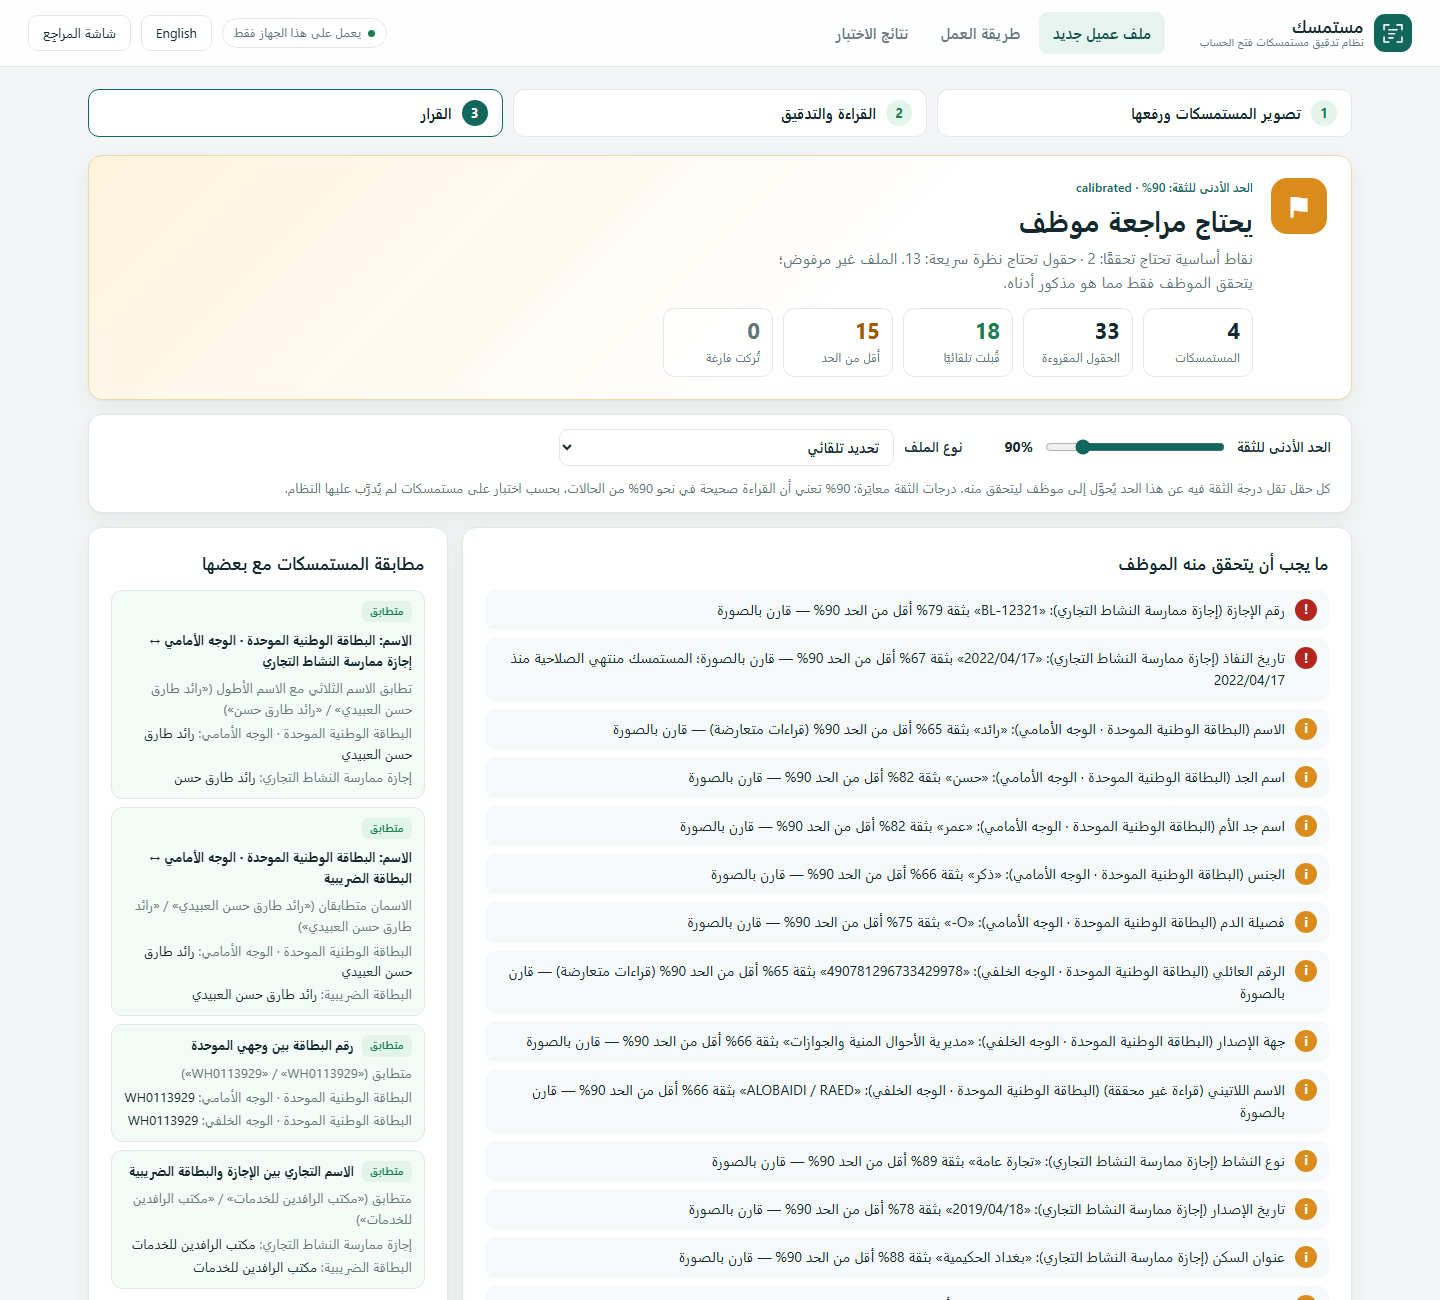
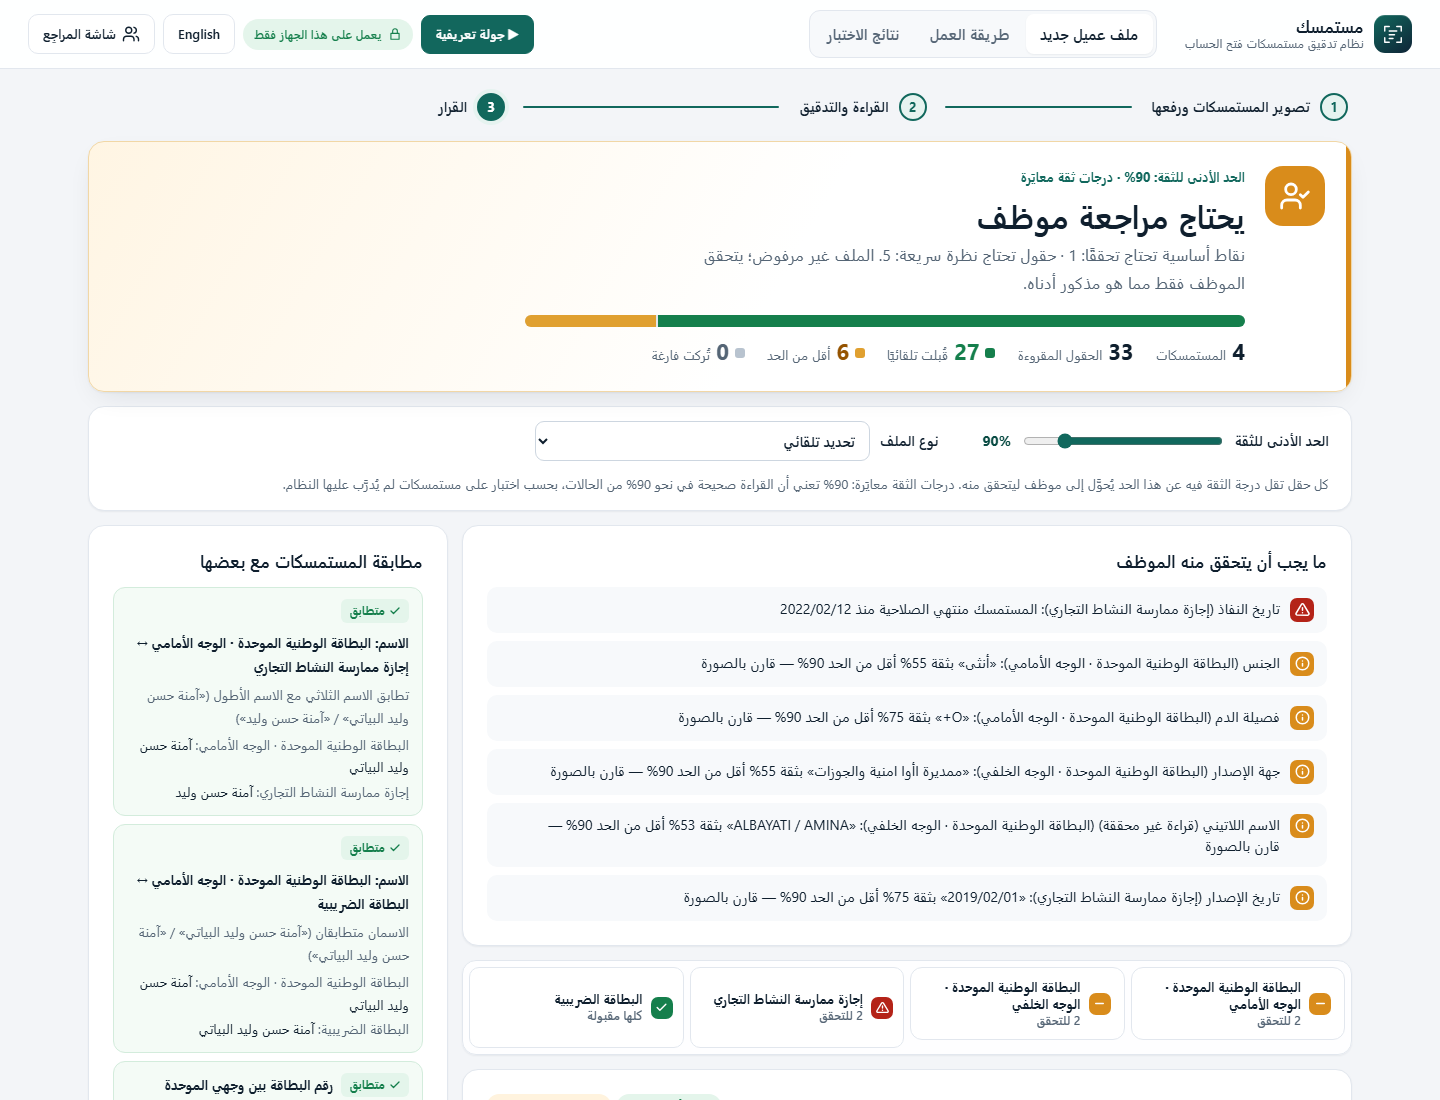
Refresh the README screenshots for the new interface
All five screenshots were recaptured from the running app (headless Edge,
1440 px, fictional demo files only). The README now leads with the two
outcomes: a correct file passed automatically and an expired licence handed
to a person (Arabic), and links docs/DESIGN.md.

diff --git a/README.md b/README.md
@@ -56,11 +56,14 @@ your computer**, and every document in this repository is **fictional**.
 
 ## Screenshots
 
-| Upload, with guidance on sharing documents safely | The same screen in Arabic (RTL) |
+| **Passed on its own:** a complete, correct file | **Handed to a person:** an expired licence, in Arabic (RTL) |
 |---|---|
-| <img src="docs/screenshots/01-upload-en.png" alt="Upload screen in English" width="420"> | <img src="docs/screenshots/03-upload-ar.png" alt="Upload screen in Arabic" width="420"> |
-| **A file with a deliberate error:** an expired licence, flagged | **Evaluation:** held-out accuracy and calibration |
-| <img src="docs/screenshots/05-flawed-ar.png" alt="Decision for a file with an expired licence, in Arabic" width="420"> | <img src="docs/screenshots/04-evaluation-en.png" alt="Evaluation screen" width="420"> |
+| <img src="docs/screenshots/02-decision-en.png" alt="Decision screen: the file passes automatically, 28 of 30 fields auto-accepted" width="420"> | <img src="docs/screenshots/05-flawed-ar.png" alt="Decision for a file with an expired licence, in Arabic" width="420"> |
+| **Upload:** live held-out results, six demo scenarios, safe-sharing guidance | **Evaluation:** held-out accuracy and calibration |
+| <img src="docs/screenshots/01-upload-en.png" alt="Upload screen in English" width="420"> | <img src="docs/screenshots/04-evaluation-en.png" alt="Evaluation screen" width="420"> |
+
+The upload screen in Arabic: [docs/screenshots/03-upload-ar.png](docs/screenshots/03-upload-ar.png). The
+interface's design system (tokens, components, accessibility checks) is in [docs/DESIGN.md](docs/DESIGN.md).
 
 ## A 3-minute demo for judges
 
